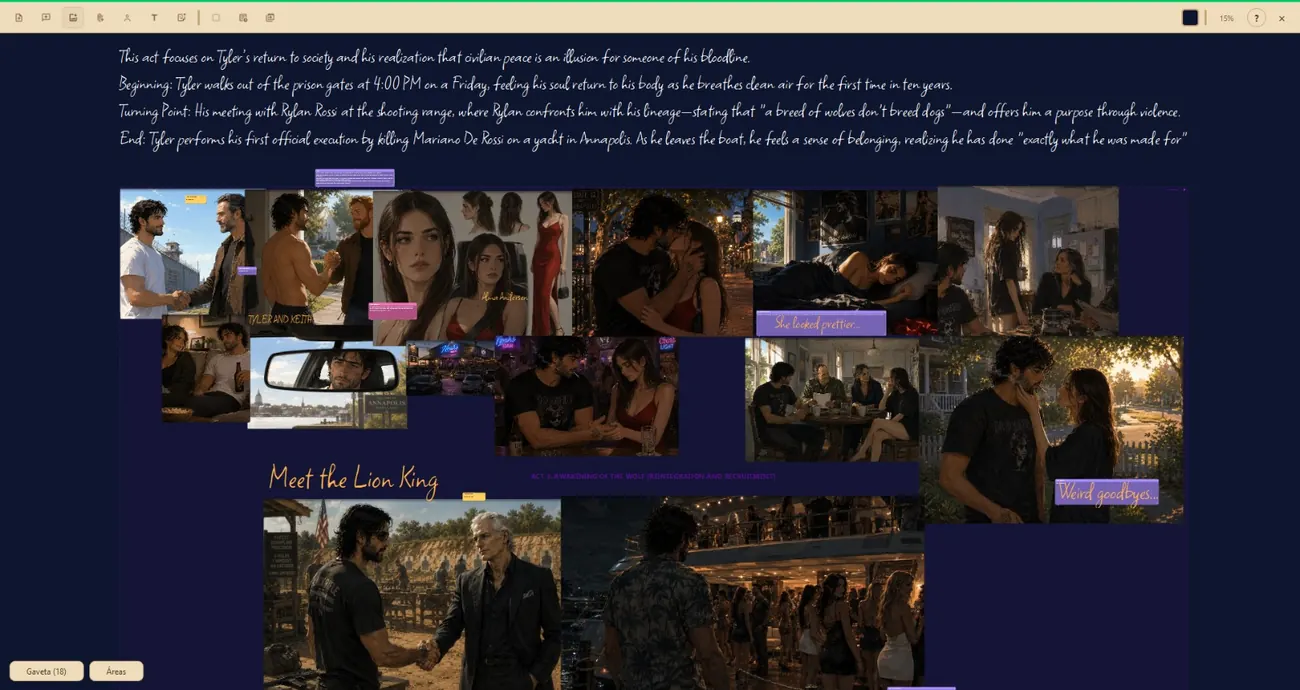
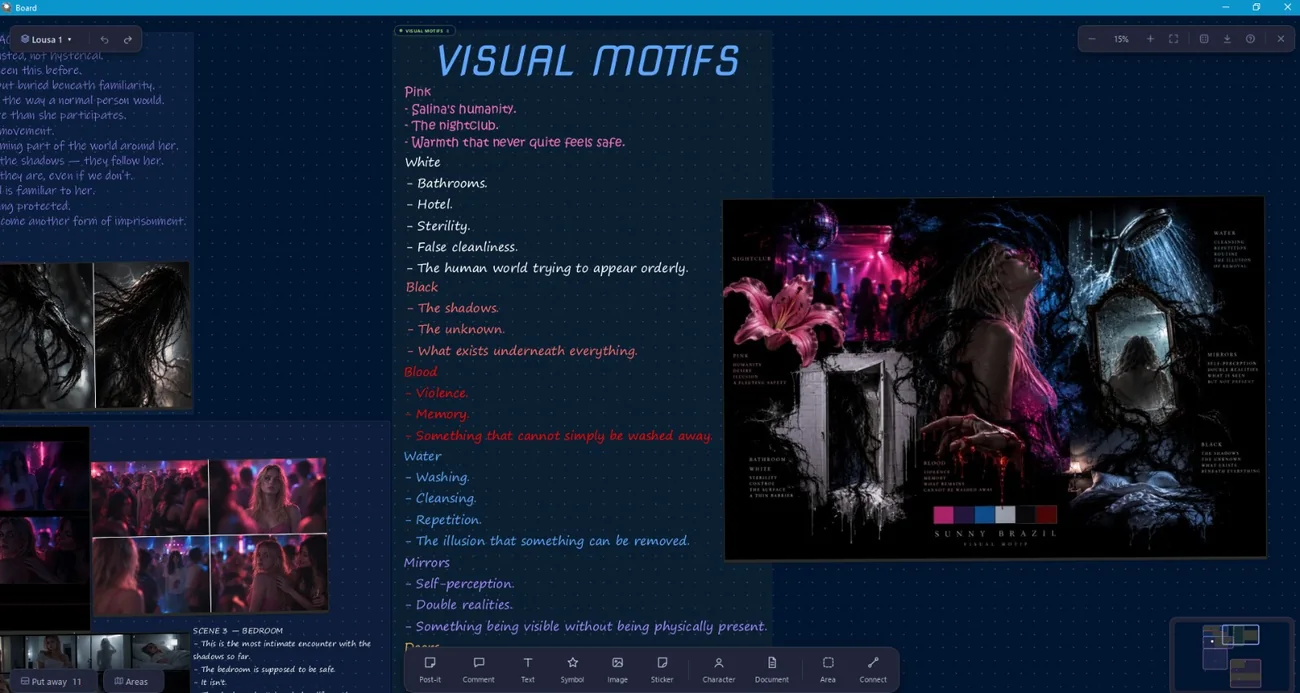
site: prints novos da Lousa, Timeline, temas e Pensário
Troca a Lousa, a Timeline (Trilhos com ramificações) e as duas imagens da
galeria de temas pelos prints atuais; 286 → 382 temas. Entram o Criador de
Temas e a comparação de temas na seção V, e uma seção nova pro Pensário
(comentário, diálogos, memórias, notas). EN e PT.

diff --git a/docs/pt/index.html b/docs/pt/index.html
@@ -403,15 +403,41 @@
 </article>
 
 <article class="leaf">
+  <div class="leaf-head"><span>O Pensário</span><span>Qenna Writer</span></div>
+  <h2>O que você nota no caminho fica anotado</h2>
+  <p class="lede">O Pensário é um painel flutuante que abre com F4. Grife um trecho e deixe um comentário nele, salve um trecho como memória pra conferir depois, anote ideias soltas &mdash; e encontre os diálogos do livro já separados por quem disse.</p>
+  <div class="cols">
+    <figure>
+      <img src="../img/panel-comment.webp" alt="Um trecho grifado com a caixa de comentário aberta: as cores, a nota e a opção de transformar em tarefa" width="806" height="319" loading="lazy">
+      <figcaption>O comentário fica no próprio trecho. Marque <strong>Tarefa</strong> e ele vai pra Revisão do Pensário.</figcaption>
+    </figure>
+    <figure>
+      <img src="../img/dialogo.webp" alt="A aba de diálogos do Pensário, cada fala embaixo do nome de quem disse" width="440" height="244" loading="lazy">
+      <figcaption>Os diálogos, cada fala embaixo de quem disse &mdash; detectados sozinhos.</figcaption>
+    </figure>
+  </div>
+  <div class="cols" style="margin-top:26px">
+    <figure>
+      <img src="../img/panel-memories.webp" alt="A aba Memórias do Pensário, com um trecho salvo e o capítulo de onde ele veio" width="445" height="209" loading="lazy">
+      <figcaption>Memórias: trechos guardados pra depois, com o capítulo de onde vieram.</figcaption>
+    </figure>
+    <figure>
+      <img src="../img/panel-note.webp" alt="A aba Notas do Pensário, com o botão de nova nota e uma nota" width="439" height="243" loading="lazy">
+      <figcaption>Notas: ideias soltas, sem vínculo com nenhum trecho.</figcaption>
+    </figure>
+  </div>
+</article>
+
+<article class="leaf">
   <div class="leaf-head"><span><span class="num">IV</span> &nbsp;Antes da primeira frase</span><span>Qenna Writer</span></div>
   <h2>Um lugar para a parte que ainda não virou prosa</h2>
   <p class="lede">A Lousa é uma tela em branco: post-its, fichas, imagens e documentos ligados como a trama realmente se liga — não um mapa mental de nós fixos. Qualquer card vira evento na linha do tempo depois.</p>
   <div class="bleed">
-    <img src="../img/panel-board.webp" alt="A Lousa do Qenna Writer com imagens de referência, post-its coloridos e anotações à mão sobre um ato inteiro da história" width="1300" height="690" loading="lazy">
+    <img src="../img/panel-board.webp" alt="A Lousa do Qenna Writer com um card de motivos visuais escrito à mão em cores, um pôster de referência e quadros do filme agrupados por cena" width="1300" height="693" loading="lazy">
   </div>
   <div class="cols" style="margin-top:30px">
     <figure>
-      <img src="../img/panel-timeline.webp" alt="A Timeline do Qenna Writer com eventos ligados sobre um fundo escuro" width="1100" height="662" loading="lazy">
+      <img src="../img/panel-timeline.webp" alt="A Timeline do Qenna Writer na vista Trilhos: a narrativa principal e três linhas que se ramificam, cada cena na sua data, e o elenco embaixo mostrando quem aparece onde" width="1300" height="684" loading="lazy">
       <figcaption>A linha do tempo se monta a partir da data e do resumo que já estão no capítulo. Quando a história se divide de verdade, um ramo aparece sem ser pedido.</figcaption>
     </figure>
     <figure>
@@ -423,7 +449,7 @@
 
 <article class="leaf">
   <div class="leaf-head"><span><span class="num">V</span> &nbsp;Do seu jeito</span><span>Qenna Writer</span></div>
-  <h2>286 temas, ou um feito do zero</h2>
+  <h2>382 temas, ou um feito do zero</h2>
   <p class="lede">A cor da página e a cor do painel são independentes — dá para ter interface escura em volta de uma página branca, ou o contrário. Dá para definir um tema de dia e um de noite e deixar o Qenna trocar sozinho no horário.</p>
   <div class="cols">
     <figure>
@@ -437,12 +463,22 @@
   </div>
   <div class="cols" style="margin-top:26px">
     <figure>
-      <img src="../img/panel-themes.webp" alt="A galeria de temas do Qenna Writer, com busca por nome, filtros por claro, escuro, colorido e estampado, e os botoes de novo, duplicar, editar, exportar e importar" width="799" height="992" loading="lazy">
+      <img src="../img/panel-themes.webp" alt="A galeria de temas do Qenna Writer: busca, categorias claro, amarelado, escuro, colorido e estampado, e a prévia do tema escolhido com o contraste do texto e os temas parecidos" width="1198" height="759" loading="lazy">
       <figcaption>Busca por nome e filtros &mdash; a busca entrou porque rolar a lista parou de ser razo&aacute;vel l&aacute; pelo tema 80.</figcaption>
     </figure>
     <figure>
-      <img src="../img/panel-patterns.webp" alt="O filtro Estampado da galeria de temas, mostrando temas com fundo fotografico: onda de Kanagawa, neon de Tokyo, geleira, campo nevado" width="798" height="991" loading="lazy">
+      <img src="../img/panel-patterns.webp" alt="O filtro Estampado da galeria de temas, mostrando temas com fundo fotográfico como Tokyo Noir, Gold Leaf, Night Vision, Blueprint e Archive" width="1196" height="726" loading="lazy">
       <figcaption>O filtro <strong>Estampado</strong>: os temas com fundo fotogr&aacute;fico, que &eacute; o que d&aacute; ao Qenna a cara que ele tem.</figcaption>
+    </figure>
+  </div>
+  <div class="cols" style="margin-top:26px">
+    <figure>
+      <img src="../img/panel-theme-creator.webp" alt="O Criador de Temas: a prévia do app inteiro em cima e, embaixo, os controles do fundo: cor do app, imagem, degradê, vinheta, opacidade e granulado" width="1001" height="736" loading="lazy">
+      <figcaption>O Criador de Temas: imagem de fundo, degradê, vinheta e granulado, com a chave de antes e depois.</figcaption>
+    </figure>
+    <figure>
+      <img src="../img/panel-compare.webp" alt="Dois temas comparados lado a lado: o tema em uso à esquerda e o Paper City Yellowed à direita" width="1199" height="720" loading="lazy">
+      <figcaption>Antes de trocar, a prévia divide a tela: o tema em uso de um lado, o que você está de olho do outro.</figcaption>
     </figure>
   </div>
   <div class="cols" style="margin-top:26px">

diff --git a/docs/index.html b/docs/index.html
@@ -393,15 +393,41 @@
 </article>
 
 <article class="leaf">
+  <div class="leaf-head"><span>The Pensarium</span><span>Qenna Writer</span></div>
+  <h2>What you notice along the way stays noted</h2>
+  <p class="lede">The Pensarium is a floating panel that opens with F4. Highlight a passage and leave a comment on it, save a passage as a memory to check later, jot down loose notes &mdash; and find the book&rsquo;s dialogue already sorted by who said it.</p>
+  <div class="cols">
+    <figure>
+      <img src="img/panel-comment.webp" alt="A highlighted passage with the comment box open: colour choices, the note, and a checkbox that turns it into a task" width="806" height="319" loading="lazy">
+      <figcaption>The comment sits on the passage itself. Tick <strong>Task</strong> and it goes into the Pensarium Review.</figcaption>
+    </figure>
+    <figure>
+      <img src="img/dialogo.webp" alt="The Pensarium dialogue tab, each line under the name of the character who said it" width="440" height="244" loading="lazy">
+      <figcaption>Dialogue, each line under whoever said it &mdash; detected on its own.</figcaption>
+    </figure>
+  </div>
+  <div class="cols" style="margin-top:26px">
+    <figure>
+      <img src="img/panel-memories.webp" alt="The Memories tab of the Pensarium, with a saved passage and the chapter it came from" width="445" height="209" loading="lazy">
+      <figcaption>Memories: passages set aside for later, with the chapter they came from.</figcaption>
+    </figure>
+    <figure>
+      <img src="img/panel-note.webp" alt="The Notes tab of the Pensarium, with a new-note button and a note" width="439" height="243" loading="lazy">
+      <figcaption>Notes: loose ideas, tied to no passage.</figcaption>
+    </figure>
+  </div>
+</article>
+
+<article class="leaf">
   <div class="leaf-head"><span><span class="num">IV</span> &nbsp;Before the first sentence</span><span>Qenna Writer</span></div>
   <h2>A place for the parts that aren't prose yet</h2>
   <p class="lede">The Planning Board is a blank canvas: post-its, sheets, images and linked documents connected however the plot actually connects — not a mind-map with fixed nodes. Any card becomes a timeline event later.</p>
   <div class="bleed">
-    <img src="img/panel-board.webp" alt="The Planning Board with reference images, coloured post-its and handwritten notes covering a whole act" width="1300" height="690" loading="lazy">
+    <img src="img/panel-board.webp" alt="The Planning Board with a card of visual motifs in coloured handwriting, a moodboard poster and film stills grouped by scene" width="1300" height="693" loading="lazy">
   </div>
   <div class="cols" style="margin-top:30px">
     <figure>
-      <img src="img/panel-timeline.webp" alt="The Qenna Writer Timeline with events connected over a dark background" width="1100" height="662" loading="lazy">
+      <img src="img/panel-timeline.webp" alt="The Qenna Writer Timeline in Tracks view: the main narrative and three branching lines, each scene placed on its date, and the cast below showing who appears where" width="1300" height="684" loading="lazy">
       <figcaption>The timeline builds itself from the date and summary already sitting in the chapter. When the story genuinely forks, a branch appears without being asked.</figcaption>
     </figure>
     <figure>
@@ -413,7 +439,7 @@
 
 <article class="leaf">
   <div class="leaf-head"><span><span class="num">V</span> &nbsp;Make it yours</span><span>Qenna Writer</span></div>
-  <h2>286 themes, or one built from scratch</h2>
+  <h2>382 themes, or one built from scratch</h2>
   <p class="lede">The page colour and the panel colour are independent — you can have a dark interface wrapped around a white page, or the other way around. You can set a day theme and a night theme and let Qenna switch on a schedule.</p>
   <div class="cols">
     <figure>
@@ -427,12 +453,22 @@
   </div>
   <div class="cols" style="margin-top:26px">
     <figure>
-      <img src="img/panel-themes.webp" alt="The Qenna Writer theme gallery, with search by name, filters for light, dark, colourful and patterned, and buttons for new, duplicate, edit, export and import" width="799" height="992" loading="lazy">
+      <img src="img/panel-themes.webp" alt="The Qenna Writer theme gallery: search, categories for light, yellowish, dark, colourful and patterned, and a preview of the chosen theme with its text contrast and similar themes" width="1198" height="759" loading="lazy">
       <figcaption>Search by name and filters — search went in because scrolling stopped being reasonable somewhere around theme 80.</figcaption>
     </figure>
     <figure>
-      <img src="img/panel-patterns.webp" alt="The Patterned filter of the theme gallery, showing themes with photographic backgrounds: Kanagawa Wave, Monokai Neon, Glacier Aurora, Nord Snowfield" width="798" height="991" loading="lazy">
+      <img src="img/panel-patterns.webp" alt="The Patterned filter of the theme gallery, showing themes with photographic backgrounds such as Tokyo Noir, Gold Leaf, Night Vision, Blueprint and Archive" width="1196" height="726" loading="lazy">
       <figcaption>The <strong>Patterned</strong> filter: the themes with photographic backgrounds, which is what gives Qenna the look it has.</figcaption>
+    </figure>
+  </div>
+  <div class="cols" style="margin-top:26px">
+    <figure>
+      <img src="img/panel-theme-creator.webp" alt="The Theme Creator: a preview of the whole app on top, and below it the background controls: app colour, image, gradient, vignette, opacity and grain" width="1001" height="736" loading="lazy">
+      <figcaption>The Theme Creator: background image, gradient, vignette and grain, with a before-and-after switch.</figcaption>
+    </figure>
+    <figure>
+      <img src="img/panel-compare.webp" alt="Two themes compared side by side: the theme in use on the left, Paper City Yellowed on the right" width="1199" height="720" loading="lazy">
+      <figcaption>Before switching, the preview splits the screen: the theme in use on one side, the one you&rsquo;re eyeing on the other.</figcaption>
     </figure>
   </div>
   <div class="cols" style="margin-top:26px">
